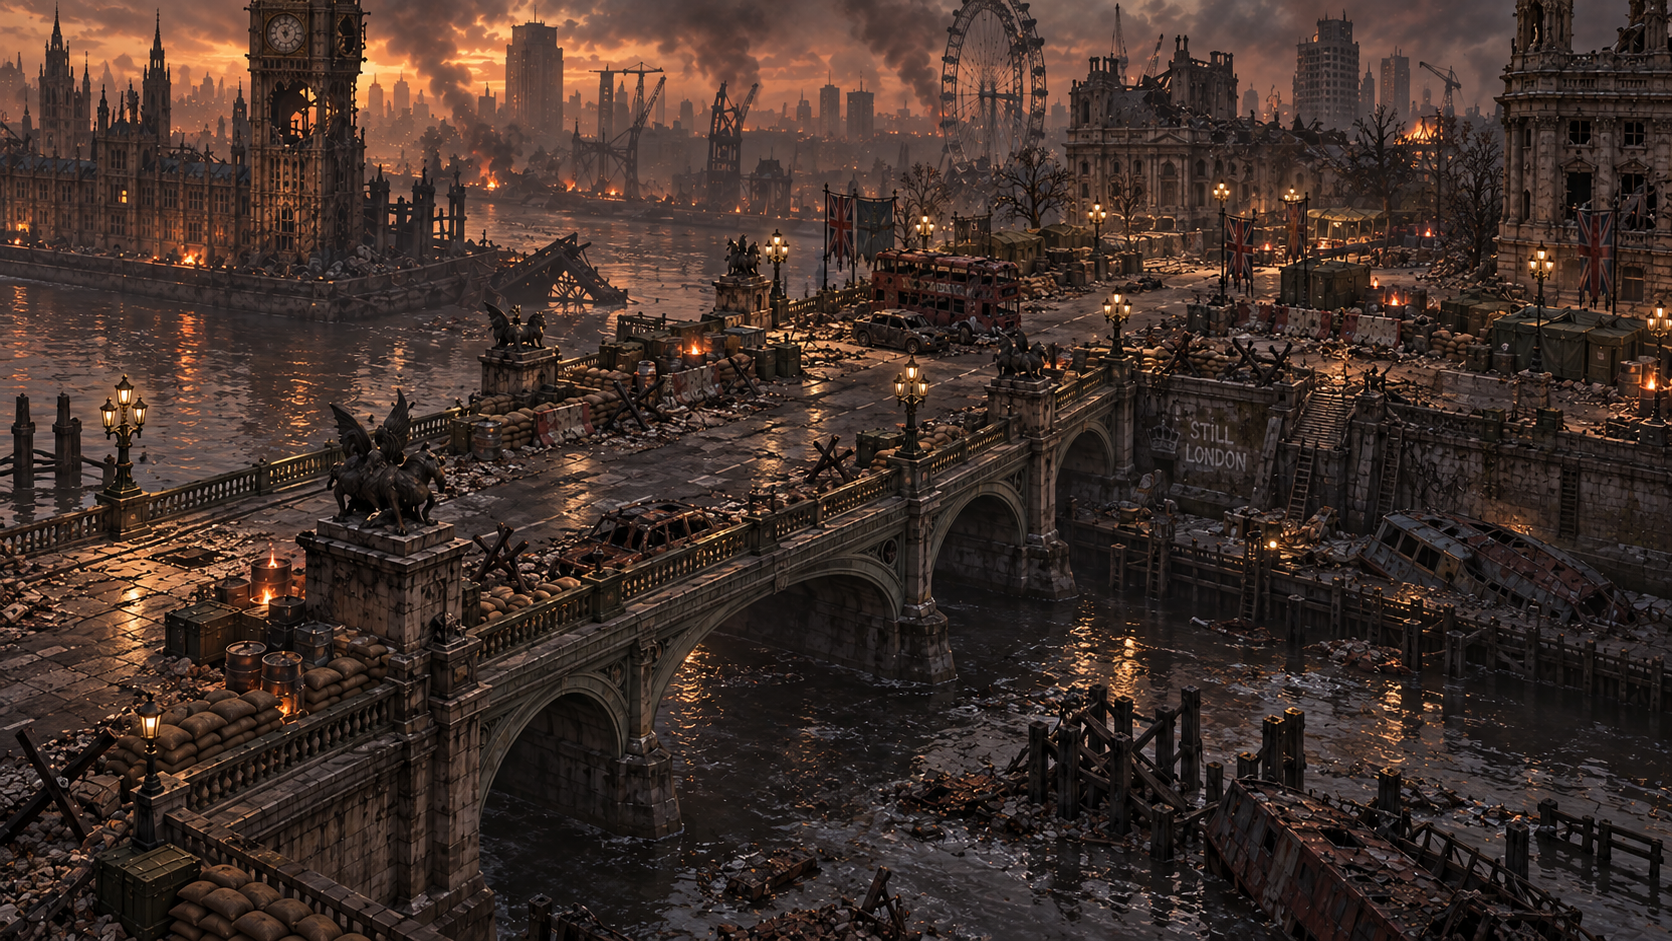
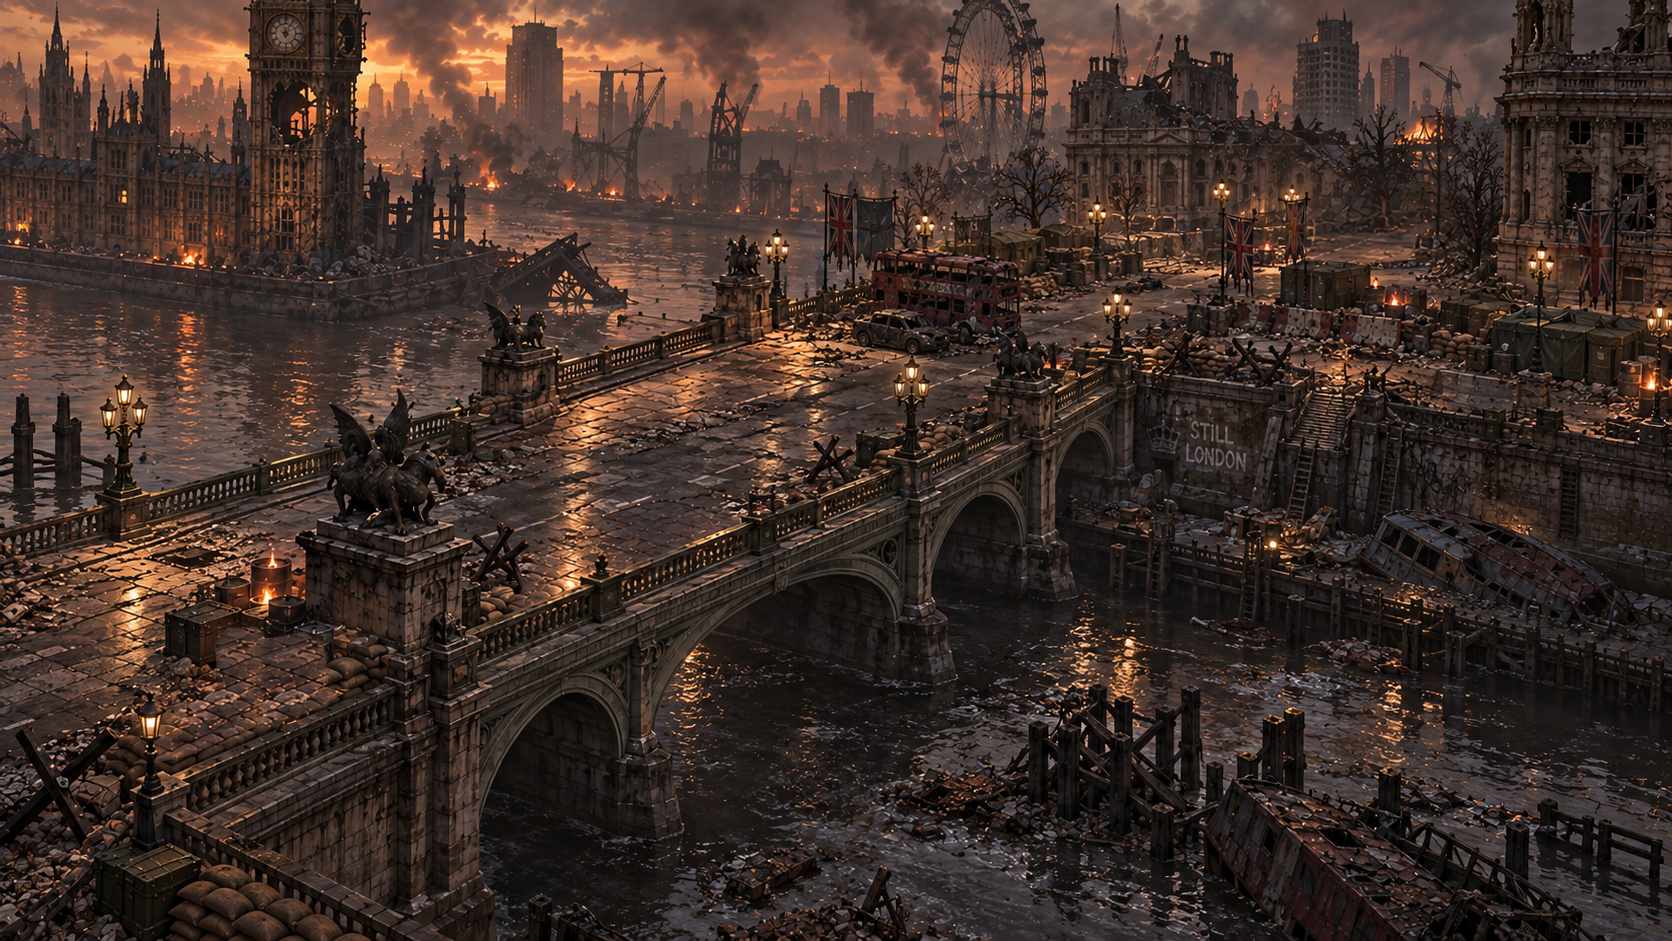
Clear marked East clutter and align walkable paving with retained props

diff --git a/Web/tests/east-clearance.test.js b/Web/tests/east-clearance.test.js
@@ -1,0 +1,7 @@
+import test from 'node:test';import assert from 'node:assert/strict';import fs from 'node:fs';import {createGeometry} from '../src/world-geometry.js';
+const layout=JSON.parse(fs.readFileSync(new URL('../public/world/east/layout.json',import.meta.url))),g=createGeometry(layout),radius=.4;
+const groups={rear:[[.81,.24],[.835,.245],[.855,.255]],near:[[.12,.74],[.155,.735],[.18,.735]],wreck:[[.35,.59],[.38,.585],[.405,.58]],far:[[.37,.365],[.39,.38],[.415,.37]]};
+for(const [name,samples]of Object.entries(groups))test(`East cleared ${name} paving permits ordinary movement at full player radius`,()=>{
+ for(const [x,y]of samples){const start=g.ground({x,y});assert(g.clear(start,radius),`${x},${y}`);for(const direction of [{x:1,z:0},{x:-1,z:0},{x:0,z:1},{x:0,z:-1}]){let p=start;for(let i=0;i<12;i++)p=g.move(p,{x:direction.x*.02,z:direction.z*.02},radius);assert(g.clear(p,radius));assert(Math.hypot(p.x-start.x,p.z-start.z)>.20,`${name}: direction ${JSON.stringify(direction)}`);}}
+});
+test('East retained props and permanent architecture still reject entry',()=>{for(const b of layout.blockers){const p={x:b.points.reduce((n,p)=>n+p.x,0)/b.points.length,y:b.points.reduce((n,p)=>n+p.y,0)/b.points.length};assert(!g.clear(g.ground(p),radius),b.name);}assert(!layout.blockers.some(b=>b.name==='Bridge wreck base'));for(const name of ['Near statue pedestal','River-side statue pedestal','Far parapet statue pedestal','East building frontage','East tent and supply base'])assert(layout.blockers.some(b=>b.name===name));});
